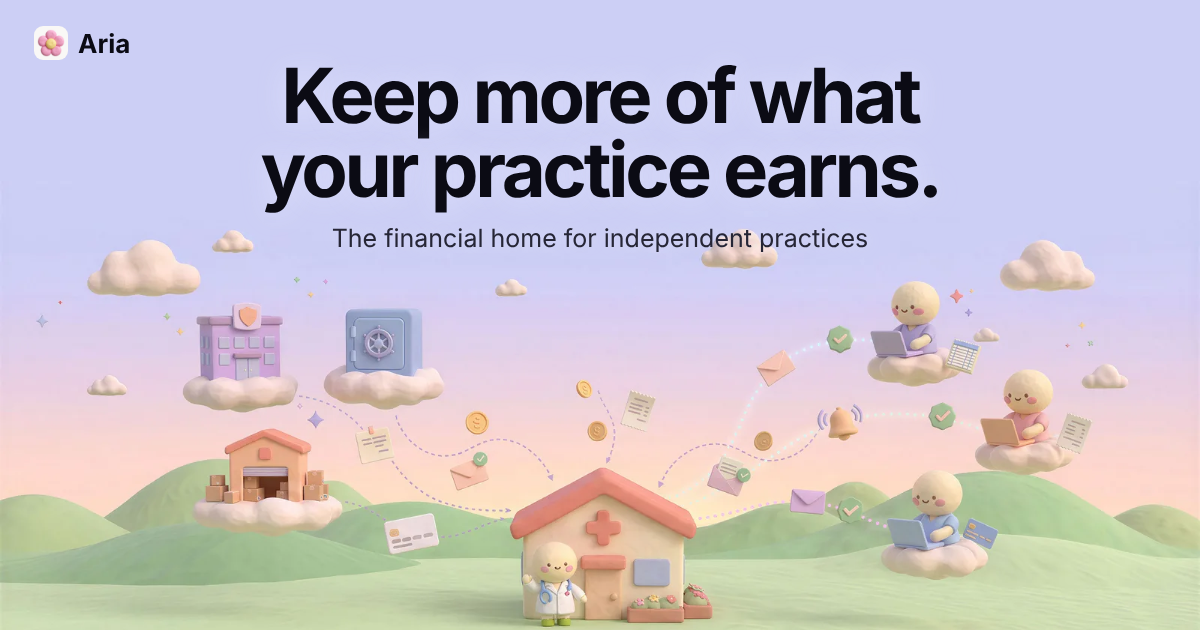
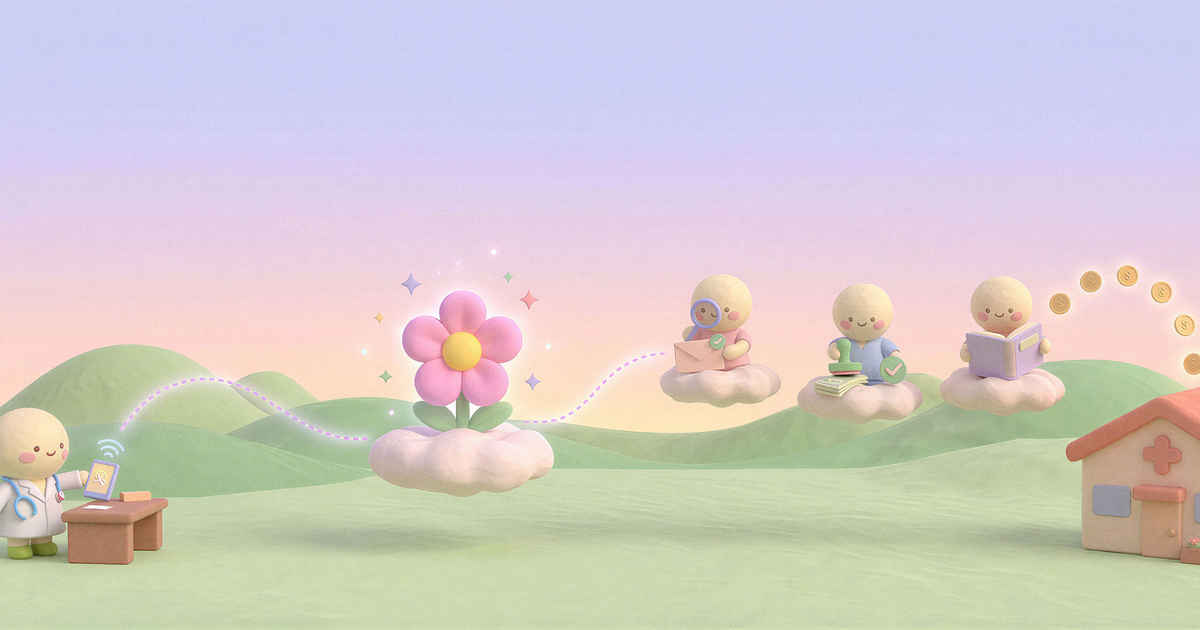
v112: hero tells the story (doctor connects, Aria team does the work, money returns); Payment Recovery page retitled; new OG image (#104)
Claude-Session: https://claude.ai/code/session_01BdY5oeBxTr2B76PjyxR4w2

diff --git a/index.html b/index.html
@@ -10,14 +10,14 @@
 <meta property="og:type" content="website">
 <meta property="og:url" content="https://ariapractice.com/">
 <meta property="og:site_name" content="Aria">
-<meta property="og:image" content="https://ariapractice.com/og.png?v=8">
+<meta property="og:image" content="https://ariapractice.com/og.png?v=9">
 <meta property="og:image:width" content="1200">
 <meta property="og:image:height" content="630">
 <meta property="og:image:alt" content="Clay illustration of a payment being checked on its way to a practice, next to the line: Your practice’s financial home.">
 <meta name="twitter:card" content="summary_large_image">
 <meta name="twitter:title" content="Aria | The financial home for independent practices">
 <meta name="twitter:description" content="Keep more of what your practice earns. Your card, bills, books and insurer payments in one home, with an AI CFO watching every dollar. Start with a card that earns 2% back on supplies.">
-<meta name="twitter:image" content="https://ariapractice.com/og.png?v=8">
+<meta name="twitter:image" content="https://ariapractice.com/og.png?v=9">
 <meta name="theme-color" content="#ffffff">
 <meta name="color-scheme" content="light">
 <link rel="icon" href="/favicon.ico?v=2" sizes="48x48">
@@ -2936,9 +2936,8 @@ h3,.tile-copy h3,.steps h3{font-weight:600}
     <div class="hc-cta"><a class="btn btn-primary" href="#waitlist" data-mode="waitlist">Join the waitlist</a><a class="btn btn-secondary" href="#waitlist" data-mode="talk">Talk to us</a></div>
     <p class="hc-note">Start with a card that earns 2% back on supplies.</p>
   </div>
-  <div class="hc-art" aria-hidden="true">
-    <picture><source media="(max-width: 760px)" srcset="/assets/i/hero-care-m.webp"><img src="/assets/i/hero-care-1600.webp" srcset="/assets/i/hero-care-1600.webp 1600w, /assets/i/hero-care-3168.webp 3168w" sizes="(max-width:1400px) 100vw, 1400px" width="3168" height="1344" alt="" fetchpriority="high" decoding="async"></picture>
-    <video class="hc-vid" muted loop playsinline preload="none" poster="/assets/i/hero-care-1600.webp" data-src="/assets/v/hero-care-1080.mp4"></video>
+  <div class="hc-art" role="img" aria-label="A doctor connects their practice to Aria. Aria’s team checks insurer payments, approves bills and closes the books, and money flows back to the practice.">
+    <picture><source media="(max-width: 760px)" srcset="/assets/i/hero-connect-m.webp"><img src="/assets/i/hero-connect-1600.webp" srcset="/assets/i/hero-connect-1600.webp 1600w, /assets/i/hero-connect-3168.webp 3168w" sizes="(max-width:1400px) 100vw, 1400px" width="3168" height="1344" alt="" fetchpriority="high" decoding="async"></picture>
   </div>
   <div class="wrap hc-strip">
     <p class="hc-strip-k">Built for independent practices in every specialty</p>
@@ -3079,7 +3078,7 @@ else{seen=true;plan();}
 </div><div class="view" data-view="see" hidden>
 <section class="sec page-top"><div class="wrap"><nav class="ptabs2" aria-label="Products"><div class="pt2-groups"><a href="#products">Overview</a><a class="pt2-g pt2-fin" href="#cfo-hub">Finance</a><a class="pt2-g pt2-ap" href="#spend">Spend &amp; books</a><a class="pt2-g pt2-ar" href="#claims-advance" data-on="true">Receivables</a></div><div class="pt2-items pt2-ar"><a href="#claims-advance"><img src="/assets/i/icon-claims-cut.webp" alt="" width="28" height="28" loading="lazy" decoding="async">Claims Advance</a><a href="#see" aria-current="page"><img src="/assets/i/icon-see-cut.webp" alt="" width="28" height="28" loading="lazy" decoding="async">Payment Recovery</a><a href="#patient-payments"><img src="/assets/i/icon-patient-cut.webp" alt="" width="28" height="28" loading="lazy" decoding="async">Patient Payments</a></div></nav>
   <div class="feature intro">
-    <div class="feature-copy"><i class="gl big"><svg class="ic" viewBox="0 0 24 24" fill="none" stroke="currentColor" stroke-width="1.5" stroke-linecap="round" stroke-linejoin="round" aria-hidden="true"><circle cx="11" cy="11" r="6.5"/><path d="M20 20l-4.2-4.2M8.5 11l1.8 1.8 3.2-3.6"/></svg></i><p class="fn-tag">Accounts Receivable</p><p class="eyebrow">Underpayment Checks</p><h1 class="h1-page">See what each insurer paid, and whether it reached your bank.</h1><p class="lead">Know when an insurer pays you short.</p><ul class="rw-stats pv-stats"><li><b>Matched</b><span>each insurer payment to its deposit</span></li><li><b>Flagged</b><span>when a deposit comes in short</span></li><li><b>Explained</b><span>reason codes in plain English</span></li></ul><div class="cta-row"><a class="btn btn-primary" href="#waitlist" data-mode="waitlist">Join the waitlist<svg class="harrow" width="10" height="10" viewBox="0 0 10 10" aria-hidden="true"><path class="hl" d="M0 5h7"/><path class="ht" d="M1 1l4 4-4 4"/></svg></a><a class="btn btn-secondary" href="#claims-how">See how it works<svg class="harrow" width="10" height="10" viewBox="0 0 10 10" aria-hidden="true"><path class="hl" d="M0 5h7"/><path class="ht" d="M1 1l4 4-4 4"/></svg></a></div></div>
+    <div class="feature-copy"><i class="gl big"><svg class="ic" viewBox="0 0 24 24" fill="none" stroke="currentColor" stroke-width="1.5" stroke-linecap="round" stroke-linejoin="round" aria-hidden="true"><circle cx="11" cy="11" r="6.5"/><path d="M20 20l-4.2-4.2M8.5 11l1.8 1.8 3.2-3.6"/></svg></i><p class="fn-tag">Accounts Receivable</p><p class="eyebrow">Payment Recovery</p><h1 class="h1-page">Get back what insurers owe you.</h1><p class="lead">Aria checks every payment against your contract, catches short pays and denials, and drafts the appeal.</p><ul class="rw-stats pv-stats"><li><b>Matched</b><span>each insurer payment to its deposit</span></li><li><b>Flagged</b><span>short pays and denials, ranked by dollars</span></li><li><b>Appealed</b><span>with the letter drafted for you</span></li></ul><div class="cta-row"><a class="btn btn-primary" href="#waitlist" data-mode="waitlist">Join the waitlist<svg class="harrow" width="10" height="10" viewBox="0 0 10 10" aria-hidden="true"><path class="hl" d="M0 5h7"/><path class="ht" d="M1 1l4 4-4 4"/></svg></a><a class="btn btn-secondary" href="#claims-how">See how it works<svg class="harrow" width="10" height="10" viewBox="0 0 10 10" aria-hidden="true"><path class="hl" d="M0 5h7"/><path class="ht" d="M1 1l4 4-4 4"/></svg></a></div></div>
     <div class="feature-vis"><img class="pv-art" src="/assets/i/pv-see.webp" alt="" aria-hidden="true" width="640" height="640" loading="lazy" decoding="async"><div class="panel" aria-hidden="true"><div class="panel-head"><b>Insurer payments</b><span class="pill ">This week</span><span class="pill">Sample data</span></div><div class="panel-body"><div class="prows"><div class="prow"><div><b>$3,412.60</b><small>Commercial plan · 14 claims</small></div><span class="amt">Matched</span></div><div class="prow"><div><b>$1,208.15</b><small>Medicare · 6 claims</small></div><span class="amt">Matched</span></div><div class="prow"><div><b>$486.00</b><small>Commercial plan · 2 claims</small></div><span class="amt">Review</span></div></div><div class="ptotal"><span>Paid by insurers</span><b class="amt">$34,740.00</b></div></div></div></div>
   </div>
   <section class="pv" aria-labelledby="pv-see"><h2 class="h2-sm pv-h" id="pv-see">How it works</h2><ol class="pv-steps"><li><span class="pv-n">1</span><p>Aria reads your remittance files and bank deposits.</p></li><li><span class="pv-n">2</span><p>It matches each payment, including lump sums.</p></li><li><span class="pv-n">3</span><p>It flags short payments and explains why.</p></li></ol><div class="mk-tw pv-tw"><table class="mk-t pv-t"><thead><tr><th scope="col"></th><th scope="col">Today</th><th scope="col">With Aria</th></tr></thead><tbody><tr><th scope="row">Matching payments</th><td>By hand, line by line</td><td>Automatic, including lump sums</td></tr><tr><th scope="row">Short payments</th><td>Often missed</td><td>Flagged with the shortfall</td></tr><tr><th scope="row">Reason codes</th><td>Looked up one by one</td><td>Explained in plain English</td></tr><tr><th scope="row">Payer trends</th><td>Guesswork</td><td>Days to pay and short payments by payer</td></tr></tbody></table></div></section><section class="sec pv-scene-sec"><div class="wrap"><figure class="pv-scene"><img src="/assets/i/scene-see-1584.webp" srcset="/assets/i/scene-see-900.webp 900w, /assets/i/scene-see-1584.webp 1584w" sizes="(max-width:1120px) 100vw, 1080px" width="1584" height="672" alt="Clay illustration: a magnifying glass over an insurer payment, next to coin stacks with one short stack flagged." loading="lazy" decoding="async"></figure></div></section><div class="split tight"><div><h2 class="h2-sm">What it does</h2></div><div><dl class="defs"><div><dt>AI payment matching</dt><dd>Aria AI is built to read remittance files and match each insurer payment to its bank deposit, including lump-sum ones.</dd></div><div><dt>Short-payments explained</dt><dd>When a deposit comes in short of its remittance, Aria AI will flag it and explain the insurer’s reason codes in plain English.</dd></div></dl></div></div>
@@ -5282,7 +5281,7 @@ html .hero.hx5 .hx5-copy{padding-top:clamp(8px,1.6vw,20px)!important}
 .hc-strip-k{margin:0;font-size:.9rem;color:var(--muted)}
 .hc-strip .hx-chips.hx-spec{display:grid!important;grid-template-columns:repeat(auto-fit,minmax(150px,1fr));gap:14px;margin:0 auto!important;width:100%;max-width:1080px;justify-self:stretch}
 .hc-strip .hx-chips.hx-spec .hb-card{min-width:0;width:auto}
-@media (max-width:760px){.hero.hc{padding-top:104px}.hc-art{aspect-ratio:1000/869;border-radius:24px}.hc-cta .btn{flex:1 1 100%;max-width:340px}}
+@media (max-width:760px){.hero.hc{padding-top:104px}.hc-art{aspect-ratio:1000/700;border-radius:24px}.hc-art::after{height:7%}.hc-cta .btn{flex:1 1 100%;max-width:340px}}
 @media (prefers-reduced-motion:reduce){.hc-vid{display:none}}
 @media (prefers-color-scheme:dark){:root:not([data-theme=light]) .hero.hc{background:linear-gradient(180deg,#24233f 0%,#2b2438 30%,var(--bg) 78%)}:root:not([data-theme=light]) .hc-pill{background:rgba(31,31,28,.7)}}
 :root[data-theme=dark] .hero.hc{background:linear-gradient(180deg,#24233f 0%,#2b2438 30%,var(--bg) 78%)}
